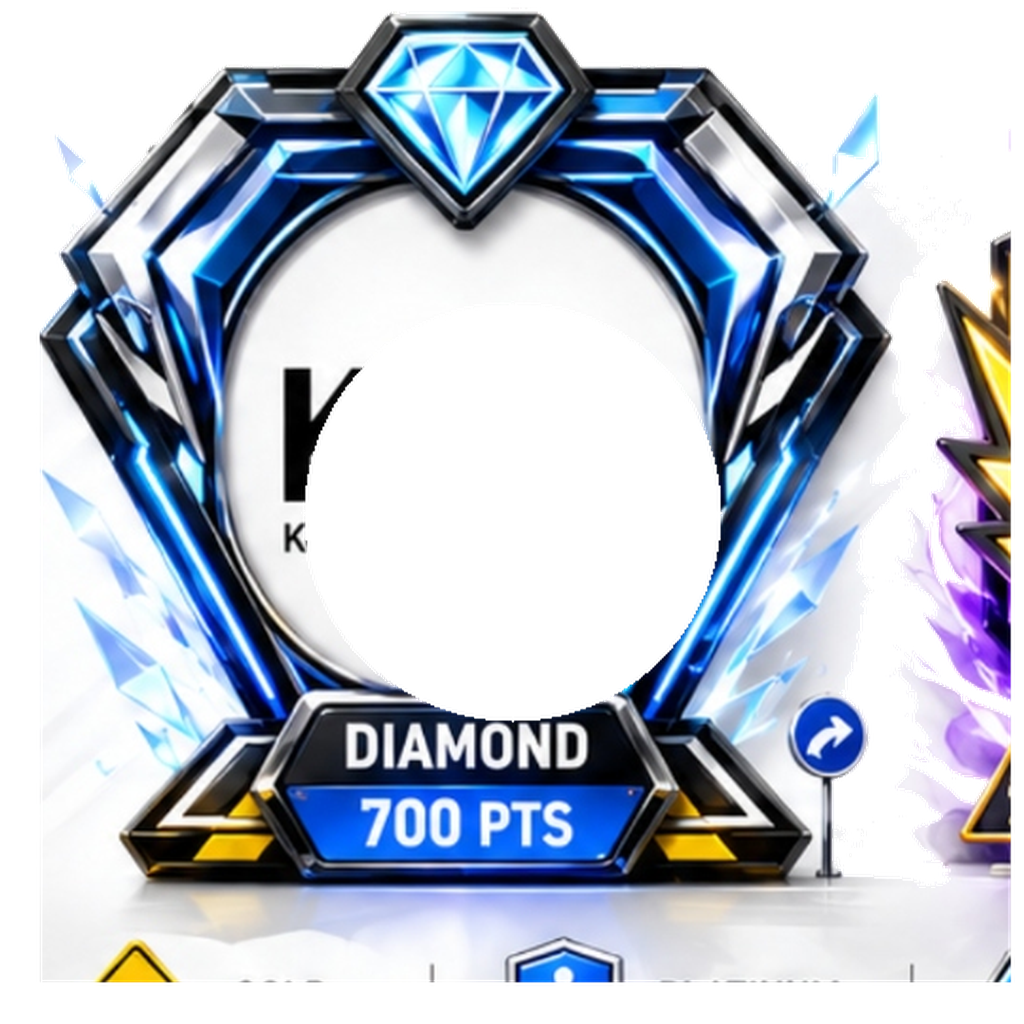
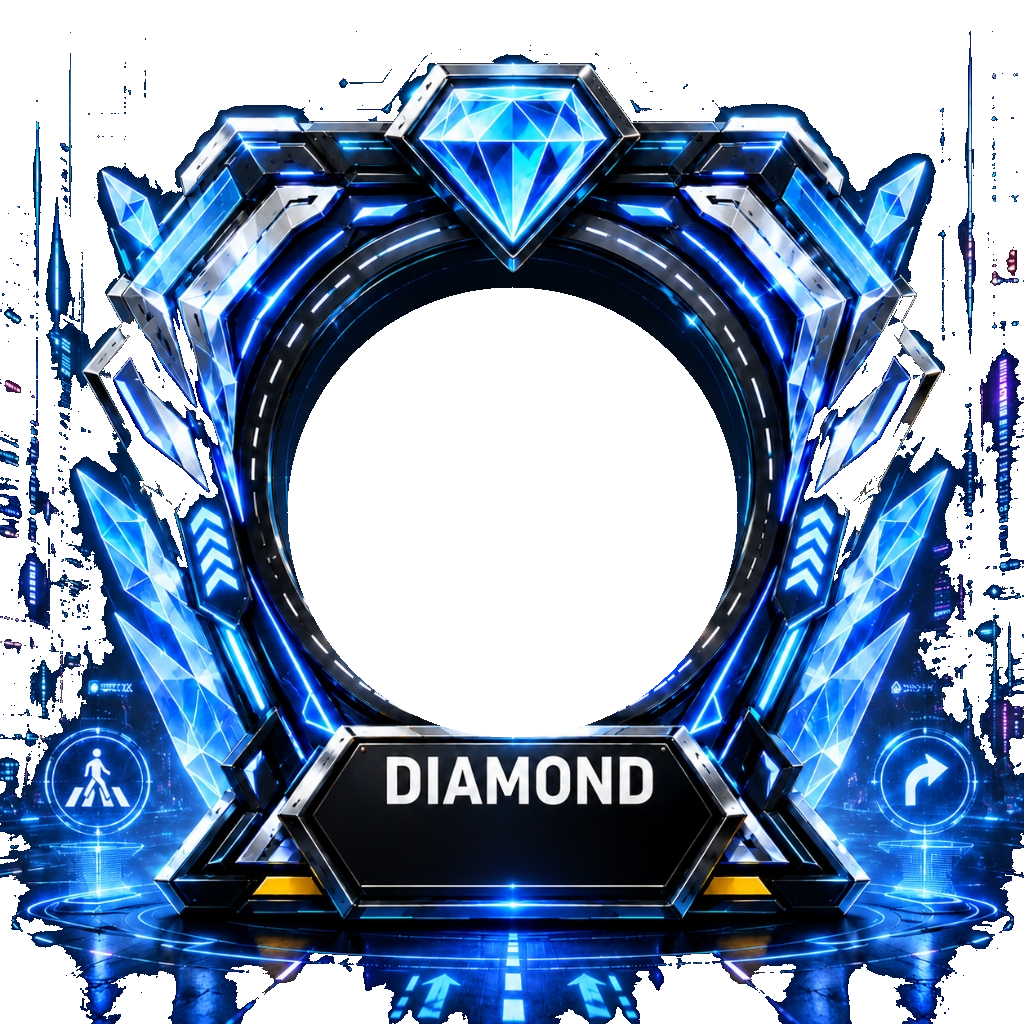
style: make gold border transparent, set white photo backgrounds, and add premium diamond animations

diff --git a/src/styles/road-avatar-border.css b/src/styles/road-avatar-border.css
@@ -91,7 +91,7 @@
     transform: translate(-50%, -50%);
     border-radius: 50%;
     overflow: hidden;
-    background: #e4e4e7;
+    background: #ffffff;
     border: calc(2px * var(--s)) solid #000;
     z-index: 5;
 }
@@ -112,7 +112,7 @@
     justify-content: center;
     width: 100%;
     height: 100%;
-    background: #d4d4d8;
+    background: #ffffff;
     color: #52525b;
     font-weight: 900;
     font-size: calc(40px * var(--s));
@@ -294,6 +294,14 @@
     border-radius: 50%;
 }
 
+.gold-avatar__bg {
+    position: absolute;
+    inset: 0;
+    clip-path: polygon(50% 5%, 95% 50%, 50% 95%, 5% 50%);
+    background: radial-gradient(circle at 50% 50%, #1f2937 0%, #0b1220 60%, #030712 100%);
+    pointer-events: none;
+}
+
 .gold-avatar__frame-img {
     position: absolute;
     top: 0;
@@ -420,7 +428,7 @@
     height: 40.23%;
     border-radius: 50%;
     overflow: hidden;
-    background: #e4e4e7;
+    background: #ffffff;
     border: calc(2px * var(--s)) solid #000;
     z-index: 5;
 }
@@ -438,7 +446,7 @@
     justify-content: center;
     width: 100%;
     height: 100%;
-    background: #d4d4d8;
+    background: #ffffff;
     color: #52525b;
     font-weight: 900;
     font-size: calc(40px * var(--s));
@@ -733,7 +741,7 @@
     height: 49.41%;
     border-radius: 50%;
     overflow: hidden;
-    background: #e4e4e7;
+    background: #ffffff;
     border: calc(2px * var(--s)) solid #000;
     z-index: 5;
 }
@@ -757,7 +765,7 @@
     justify-content: center;
     width: 100%;
     height: 100%;
-    background: #d4d4d8;
+    background: #ffffff;
     color: #52525b;
     font-weight: 900;
     font-size: calc(40px * var(--s));
@@ -817,13 +825,13 @@
 /* Top diamond jewel beacon glow */
 .diamond-avatar__top-glow {
     position: absolute;
-    top: 10%;
+    top: 7%;
     left: 50%;
     transform: translate(-50%, -50%);
-    width: calc(28px * var(--s));
-    height: calc(28px * var(--s));
+    width: calc(38px * var(--s));
+    height: calc(38px * var(--s));
     border-radius: 50%;
-    background: radial-gradient(circle, rgba(6, 182, 212, 0.8) 0%, rgba(6, 182, 212, 0) 70%);
+    background: radial-gradient(circle, rgba(34, 211, 238, 0.85) 0%, rgba(34, 211, 238, 0) 70%);
     z-index: 2;
     pointer-events: none;
     opacity: 0;
@@ -836,6 +844,91 @@
 @keyframes diamondTopGlow {
     0%, 100% { opacity: 0.2; transform: translate(-50%, -50%) scale(0.8); }
     50% { opacity: 1; transform: translate(-50%, -50%) scale(1.35); }
+}
+
+/* Bottom warning sign glows (alternating hazard strobes) */
+.diamond-avatar__left-sign-glow,
+.diamond-avatar__right-sign-glow {
+    position: absolute;
+    width: calc(36px * var(--s));
+    height: calc(36px * var(--s));
+    border-radius: 50%;
+    background: radial-gradient(circle, rgba(34, 211, 238, 0.8) 0%, rgba(34, 211, 238, 0) 70%);
+    z-index: 2;
+    pointer-events: none;
+    opacity: 0;
+}
+
+.diamond-avatar__left-sign-glow {
+    left: calc(10px * var(--s));
+    bottom: calc(10px * var(--s));
+}
+
+.diamond-avatar__right-sign-glow {
+    right: calc(10px * var(--s));
+    bottom: calc(10px * var(--s));
+}
+
+.diamond-avatar--animated .diamond-avatar__left-sign-glow {
+    animation: diamondStrobeLeft 2s infinite ease-in-out;
+}
+
+.diamond-avatar--animated .diamond-avatar__right-sign-glow {
+    animation: diamondStrobeRight 2s infinite ease-in-out;
+}
+
+@keyframes diamondStrobeLeft {
+    0%, 12%, 24% { opacity: 0.95; transform: scale(1.25); }
+    6%, 18%, 30%, 100% { opacity: 0.15; transform: scale(0.9); }
+}
+
+@keyframes diamondStrobeRight {
+    0%, 50%, 62%, 74% { opacity: 0.15; transform: scale(0.9); }
+    56%, 68%, 80% { opacity: 0.95; transform: scale(1.25); }
+}
+
+/* Side arrow/chevron glows (sliding rising animation) */
+.diamond-avatar__arrow-glow {
+    position: absolute;
+    width: calc(24px * var(--s));
+    height: calc(24px * var(--s));
+    border-radius: 50%;
+    background: radial-gradient(circle, rgba(34, 211, 238, 0.95) 0%, rgba(34, 211, 238, 0) 70%);
+    z-index: 2;
+    pointer-events: none;
+    opacity: 0;
+}
+
+.diamond-avatar__arrow-glow--left {
+    left: calc(21px * var(--s));
+    top: calc(75px * var(--s));
+}
+
+.diamond-avatar__arrow-glow--right {
+    right: calc(21px * var(--s));
+    top: calc(75px * var(--s));
+}
+
+.diamond-avatar--animated .diamond-avatar__arrow-glow {
+    animation: diamondArrowRise 3s infinite linear;
+}
+
+.diamond-avatar--animated .diamond-avatar__arrow-glow--right {
+    animation-delay: 1.5s;
+}
+
+@keyframes diamondArrowRise {
+    0% {
+        transform: translateY(calc(30px * var(--s))) scale(0.8);
+        opacity: 0;
+    }
+    30%, 70% {
+        opacity: 0.9;
+    }
+    100% {
+        transform: translateY(calc(-30px * var(--s))) scale(0.8);
+        opacity: 0;
+    }
 }
 
 /* Side crystal shards shimmering */
@@ -891,7 +984,7 @@
     height: 43%;
     border-radius: 50%;
     overflow: hidden;
-    background: #e4e4e7;
+    background: #ffffff;
     border: calc(2px * var(--s)) solid #000;
     z-index: 5;
 }
@@ -915,7 +1008,7 @@
     justify-content: center;
     width: 100%;
     height: 100%;
-    background: #d4d4d8;
+    background: #ffffff;
     color: #52525b;
     font-weight: 900;
     font-size: calc(40px * var(--s));
@@ -1112,7 +1205,7 @@
     height: 44.4%;
     border-radius: 50%;
     overflow: hidden;
-    background: #e4e4e7;
+    background: #ffffff;
     border: calc(2px * var(--s)) solid #000;
     z-index: 5;
 }
@@ -1136,7 +1229,7 @@
     justify-content: center;
     width: 100%;
     height: 100%;
-    background: #d4d4d8;
+    background: #ffffff;
     color: #52525b;
     font-weight: 900;
     font-size: calc(40px * var(--s));

diff --git a/src/components/rank/DiamondAvatarBorder.tsx b/src/components/rank/DiamondAvatarBorder.tsx
@@ -73,8 +73,13 @@ export function DiamondAvatarBorder({
                 {/* Side crystal shards shimmer/glow */}
                 <div className="diamond-avatar__crystal-shimmer" aria-hidden="true" />
 
-                {/* Bottom-right roundabout traffic sign glow */}
-                <div className="diamond-avatar__sign-glow" aria-hidden="true" />
+                {/* Side glowing chevrons sliding up */}
+                <div className="diamond-avatar__arrow-glow diamond-avatar__arrow-glow--left" aria-hidden="true" />
+                <div className="diamond-avatar__arrow-glow diamond-avatar__arrow-glow--right" aria-hidden="true" />
+
+                {/* Bottom-left and bottom-right warning sign hazard glows */}
+                <div className="diamond-avatar__left-sign-glow" aria-hidden="true" />
+                <div className="diamond-avatar__right-sign-glow" aria-hidden="true" />
 
                 {/* Protected profile photo window in the center (43% cutout) */}
                 <div className="diamond-avatar__photo">

diff --git a/src/components/rank/AvatarBorder.tsx b/src/components/rank/AvatarBorder.tsx
@@ -178,7 +178,7 @@ export function AvatarBorder({
                         />
                     ) : (
                         <div
-                            className="flex h-full w-full items-center justify-center bg-zinc-200 text-zinc-500"
+                            className="flex h-full w-full items-center justify-center bg-white text-zinc-500"
                             role="img"
                             aria-label={alt}
                         >

diff --git a/src/components/rank/GoldAvatarBorder.tsx b/src/components/rank/GoldAvatarBorder.tsx
@@ -57,6 +57,9 @@ export function GoldAvatarBorder({
             style={vars}
         >
             <div className="gold-avatar__plate">
+                {/* Dark asphalt background behind the transparent warning diamond body */}
+                <div className="gold-avatar__bg" aria-hidden="true" />
+
                 {/* The high-resolution GOLD rank border PNG */}
                 <img
                     src="/brand/gold-avatar-border.png"

diff --git a/src/styles/avatar-rank-animations.css b/src/styles/avatar-rank-animations.css
@@ -58,7 +58,7 @@
     border-radius: 9999px;
     overflow: hidden;
     border: 3px solid #000000;
-    background: #e4e4e7;
+    background: #ffffff;
 }
 
 /* Corner badge anchors. */
